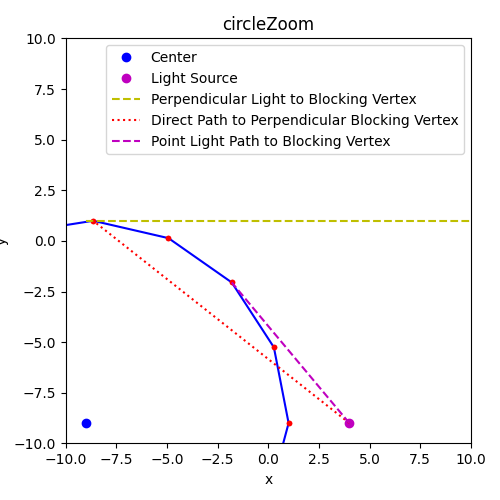
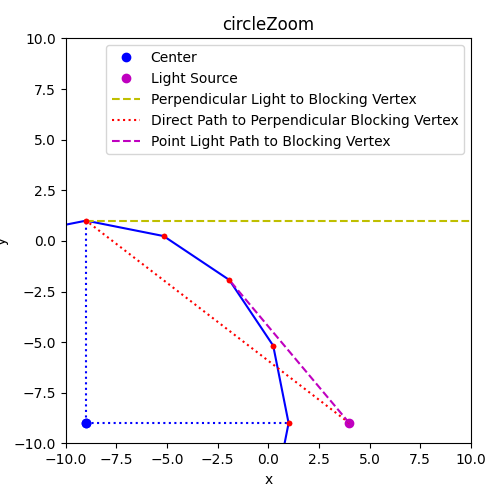
Fixed rounding error in evenShape by dividing with float instead of int.

diff --git a/tests/visual_tests/main.cpp b/tests/visual_tests/main.cpp
@@ -589,10 +589,13 @@ void docsCircleZoom()
     plot(c, "ob", "Center");
     plot(ls, "om", "Light Source");
     plot(circ, "b");
-    plot(circ, ".r");
     plot(dir, "--y", "Perpendicular Light to Blocking Vertex");
     plot(cut, ":r", "Direct Path to Perpendicular Blocking Vertex");
     plot(ls_v, "--m", "Point Light Path to Blocking Vertex");
+    plot(ds::line2D(c, circ[0]), ":b");
+    plot(ds::line2D(c, circ[4]), ":b");
+    plot(circ, ".r");
+    plot(c, "ob");
 
     saveFigure(DOCS_PATH, test);
 }

diff --git a/src/evenShape2D.cpp b/src/evenShape2D.cpp
@@ -9,7 +9,7 @@ evenShape2D::evenShape2D(
     const size_t size
 ) : shape2D(center, radius, size)
 {
-    this->m_vertSeparation = 360 / size; // set separation between vertices (in degrees)
+    this->m_vertSeparation = 360.f / size; // set separation between vertices (in degrees)
 
     this->m_vertices.push_back(point2D(this->m_center.x + this->m_radius, this->m_center.y)); // set first vertex
 
